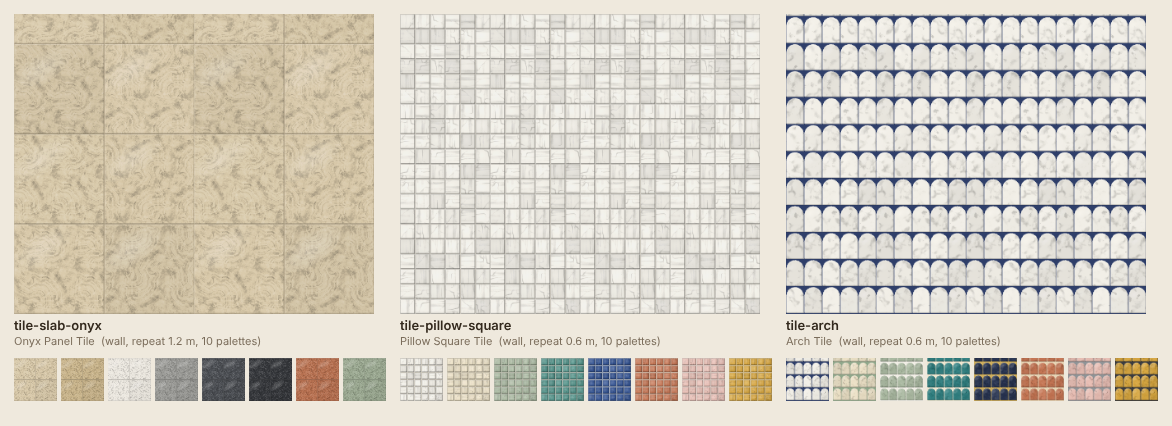
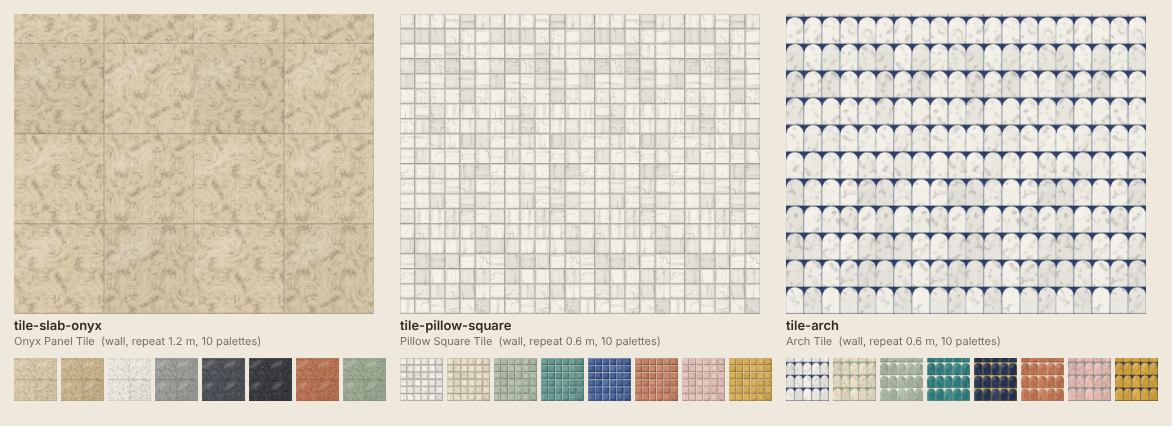
M10 surfaces: walls-d (60 deco, playful, themed) and content WIP
Claude-Session: https://claude.ai/code/session_01Sk68ke1565YUofyCmAJJtB

diff --git a/tests/unit/surfaces/m10-walls-e.test.ts b/tests/unit/surfaces/m10-walls-e.test.ts
@@ -1,0 +1,65 @@
+// Group walls-e (M10): 19 wood panel designs and 32 wall tile designs paint with a fake canvas and no images loaded.
+import { describe, expect, it } from 'vitest';
+import { paletteTone } from '../../../src/content/surfaces';
+import { WALLS_E } from '../../../src/content/surfaces3/walls-e';
+import { MAP_IDS, MOTIF_IDS } from '../../../src/render/textures/mapKit';
+import { PAINTERS_WALLS_E } from '../../../src/render/textures/packs/walls-e';
+import { checkParams, paintDesign, painterFor, textureLayout } from '../../../src/render/textures/painters';
+import { FakeCanvas } from './fakeCanvas';
+
+const count = (family: string) => WALLS_E.filter((d) => d.family === family).length;
+
+describe('walls-e designs', () => {
+  it('hit the allocated counts per family', () => {
+    expect(count('wood-panel')).toBe(19);
+    expect(count('tile')).toBe(32);
+    expect(WALLS_E.length).toBe(51);
+  });
+
+  it('have unique ids with a family prefix, and unique names', () => {
+    const ids = WALLS_E.map((d) => d.id);
+    expect(new Set(ids).size).toBe(ids.length);
+    expect(new Set(WALLS_E.map((d) => d.name)).size).toBe(ids.length);
+    for (const d of WALLS_E) expect(d.id.startsWith(d.family === 'tile' ? 'tile-' : 'panel-'), d.id).toBe(true);
+  });
+
+  it('have at least 8 palettes with light, dark, neutral and accent tones', () => {
+    for (const d of WALLS_E) {
+      expect(d.palettes.length, d.id).toBeGreaterThanOrEqual(8);
+      expect([...new Set(d.palettes.map(paletteTone))].sort(), d.id).toEqual(['accent', 'dark', 'light', 'neutral']);
+      expect(d.packs.length, d.id).toBeGreaterThan(0);
+    }
+  });
+
+  it('use valid params, known maps and motifs, and painters of this group', () => {
+    const own = new Set(PAINTERS_WALLS_E.map((p) => p.id));
+    for (const d of WALLS_E) {
+      expect(own.has(d.painter), d.id).toBe(true);
+      expect(checkParams(painterFor(d), d.params), d.id).toEqual([]);
+      const map = d.params.map;
+      if (typeof map === 'string' && map) expect((MAP_IDS as readonly string[]).includes(map), `${d.id} map`).toBe(true);
+      const motif = d.params.motif;
+      if (typeof motif === 'string' && motif) expect(MOTIF_IDS.includes(motif), `${d.id} motif`).toBe(true);
+    }
+  });
+
+  it('have no two designs with the same painter and params', () => {
+    const keys = WALLS_E.map((d) => `${d.painter}:${JSON.stringify(Object.entries(d.params).sort())}`);
+    expect(new Set(keys).size).toBe(keys.length);
+  });
+
+  it('paint every palette with the fake canvas and no images, deterministically', { timeout: 120000 }, () => {
+    for (const d of WALLS_E) {
+      for (const pal of d.palettes) {
+        const a = new FakeCanvas();
+        paintDesign(a, d, pal.id, textureLayout(d, 64));
+        expect(a.depth, `${d.id}/${pal.id}`).toBe(0);
+        expect(a.calls, d.id).toBeGreaterThan(5);
+      }
+      const x = new FakeCanvas(), y = new FakeCanvas();
+      paintDesign(x, d, d.palettes[0]!.id, textureLayout(d, 64));
+      paintDesign(y, d, d.palettes[0]!.id, textureLayout(d, 64));
+      expect(x.log.join('|'), d.id).toBe(y.log.join('|'));
+    }
+  });
+});

diff --git a/src/content/surfaces3/walls-e.ts b/src/content/surfaces3/walls-e.ts
@@ -396,7 +396,7 @@ export const WALLS_E: SurfaceDesign[] = [
     description: 'Overlapping fish-scale tiles in rows, arcs facing up, each scale glazed in a slightly different pool of colour.',
     family: 'tile', tags: ['tile', 'fish-scale', 'mermaid', 'scales', 'coastal', 'bathroom', 'kitchen', 'feature-wall'],
     packs: ['coastal-home', 'art-deco'], price: 33,
-    painter: 'wall-tile-lay', params: { layout: 'scales', size: 0.1, map: 'glaze-reactive', glaze: 0.5, grain: 0.5, grout: 0.003, variation: 0.4, finish: 'gloss' }, repeat: 0.6,
+    painter: 'wall-tile-lay', params: { layout: 'scales', size: 0.1, map: 'glaze-reactive', glaze: 0.3, grain: 0.5, grout: 0.003, variation: 0.4, finish: 'gloss' }, repeat: 0.6,
     palettes: tilePal(GLAZES),
   }),
   wall({
@@ -404,7 +404,7 @@ export const WALLS_E: SurfaceDesign[] = [
     description: 'Fan-shaped scallops with their arcs turned down, in a soft matt speckled glaze. Pretty without being fussy.',
     family: 'tile', tags: ['tile', 'scallop', 'fan', 'speckled', 'matt', 'retro', 'bathroom', 'kitchen', 'nursery'],
     packs: ['mid-century', 'coastal-home'], price: 31,
-    painter: 'wall-tile-lay', params: { layout: 'scales', size: 0.12, flip: true, map: 'glaze-speckle', glaze: 0.55, grain: 0.5, grout: 0.003, variation: 0.3, finish: 'bevel' }, repeat: 0.72,
+    painter: 'wall-tile-lay', params: { layout: 'scales', size: 0.12, flip: true, map: 'glaze-speckle', glaze: 0.45, grain: 0.5, grout: 0.003, variation: 0.3, finish: 'bevel' }, repeat: 0.72,
     palettes: tilePal(GLAZES),
   }),
   wall({

diff --git a/src/render/textures/packs/walls-e.ts b/src/render/textures/packs/walls-e.ts
@@ -1083,6 +1083,12 @@ const tileLay: PainterDef = {
           softBlob(ctx, bx0 + (bx1 - bx0) * 0.3, by0 + (by1 - by0) * 0.28, (bx1 - bx0) * 0.38, (by1 - by0) * 0.16, -0.6, '#ffffff', 0.2, 4);
         }
         ctx.restore();
+        if (layout === 'scales') {
+          ctx.strokeStyle = rgba(groutC, 0.85);
+          ctx.lineWidth = g * 1.2;
+          polyPath(ctx, inner);
+          ctx.stroke();
+        }
         if (finish !== 'flat' && finish !== 'ribbed') bevelEdges(ctx, s, inner, hair(s, 0.0025), finish === 'pillow' ? 0.35 : 0.3);
         else if (finish === 'ribbed') bevelEdges(ctx, s, inner, hair(s, 0.002), 0.2);
         // hand-painted motif

diff --git a/tests/unit/surfaces/zz-tones-we.test.ts b/tests/unit/surfaces/zz-tones-we.test.ts
@@ -1,0 +1,4 @@
+import { it } from 'vitest';
+import { WALLS_E } from '../../../src/content/surfaces3/walls-e';
+import { paletteTone } from '../../../src/content/surfaces';
+it('t', () => { const out: string[] = []; for (const d of WALLS_E) { const t = new Set(d.palettes.map(paletteTone)); const miss = ['light','dark','neutral','accent'].filter(x=>!t.has(x as never)); if (miss.length) out.push(d.id + ' missing ' + miss.join(',') + ' :: ' + d.palettes.map(p=>p.id+':'+paletteTone(p)).join(' ')); } throw new Error('\n' + out.join('\n')); });
